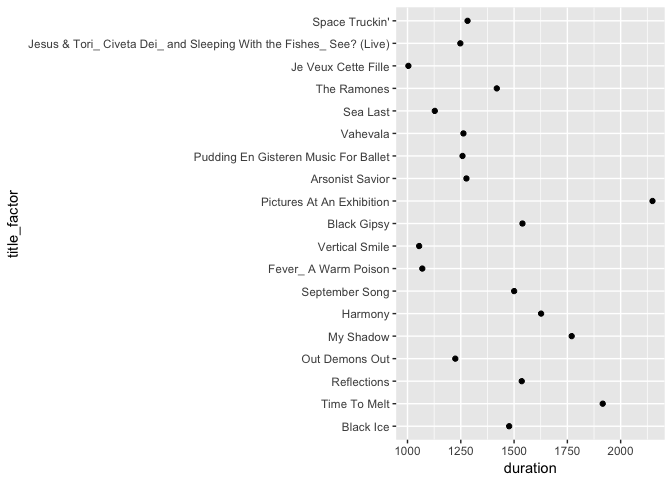
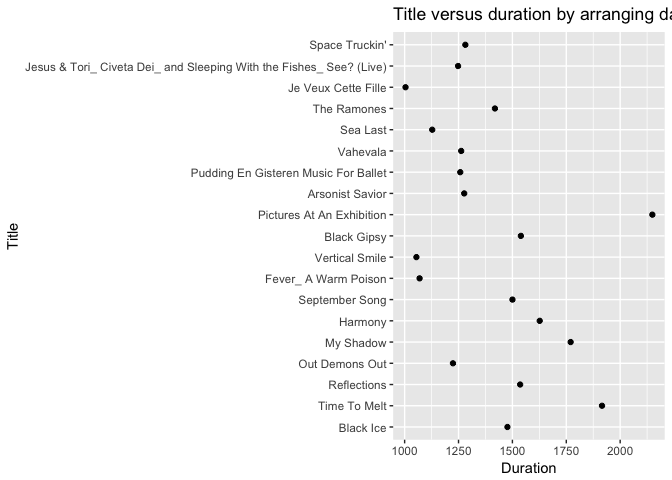
fixed hw05

diff --git a/hw05/hw05_factor_figure_management.md b/hw05/hw05_factor_figure_management.md
@@ -87,6 +87,8 @@ Filter the singer\_locations data to remove observations associated with the inc
 sl_year0_dropped <- sl %>% 
   mutate(year_drop0 = ifelse(year==0,"drop0",year))  %>% filter(year_drop0!="drop0")
 
+## 100 instances of year==0
+
 glimpse(sl_year0_dropped)
 ```
 
@@ -111,7 +113,6 @@ glimpse(sl_year0_dropped)
     ## $ year_drop0         <chr> "2007", "2004", "1998", "1995", "1968", "20...
 
 ``` r
-## 100 instances of year==0
 which(sl$year_drop0=="drop0")
 ```
 
@@ -190,67 +191,93 @@ Explore the effects of arrange(). Does merely arranging the data have any effect
 
 Re-ordering would change the order in which the points are plotted on the graph. `arrange()` would not change the order, whether or not it is used with re-ordering.
 
+filter data to only look at titles with duration &gt;1000 otherwise plot is too cluttered
+-----------------------------------------------------------------------------------------
+
+using arrange() only
+--------------------
+
 ``` r
-## filter data to only look at titles with duration >1000 otherwise plot is too cluttered
-## using arrange() only
 sl_year0_unused_levels_dropped %>% 
   arrange(duration) %>% 
   filter(duration>1000) %>%
   ggplot(aes(x=duration,y=title_factor)) + 
-  geom_point()
+  geom_point() +
+  ggtitle("Title versus duration by arranging data based on duration") +
+  ylab("Title") +
+  xlab("Duration")
 ```
 
-![](hw05_factor_figure_management_files/figure-markdown_github-ascii_identifiers/plots-1.png)
+![](hw05_factor_figure_management_files/figure-markdown_github-ascii_identifiers/plot1-1.png)
 
 ``` r
 sl_year0_unused_levels_dropped %>% 
   arrange(duration) %>% 
   filter(duration>1000) %>%
   ggplot(aes(x=duration,y=artist_name_factor)) + 
-  geom_point()
+  geom_point() +
+  ggtitle("Artist name versus duration by arranging data based on duration") +
+  ylab("Artist name") +
+  xlab("Duration")
 ```
 
-![](hw05_factor_figure_management_files/figure-markdown_github-ascii_identifiers/plots-2.png)
+![](hw05_factor_figure_management_files/figure-markdown_github-ascii_identifiers/plot2-1.png)
+
+using re-ordering of levels
+---------------------------
 
 ``` r
-## using re-ordering of levels
 sl_year0_unused_levels_dropped %>%
   filter(duration>1000) %>%
   ggplot(aes(x=duration,y=fct_reorder(title_factor,duration,.desc=TRUE))) + 
-  geom_point()
+  geom_point() +
+  ggtitle("Title (reordered based on duration) versus duration") +
+  ylab("Title") +
+  xlab("Duration")
 ```
 
-![](hw05_factor_figure_management_files/figure-markdown_github-ascii_identifiers/plots-3.png)
+![](hw05_factor_figure_management_files/figure-markdown_github-ascii_identifiers/plot3-1.png)
 
 ``` r
 sl_year0_unused_levels_dropped %>% 
   filter(duration>1000) %>%
   ggplot(aes(x=duration,y=fct_reorder(artist_name_factor,duration,.desc=TRUE))) + 
-  geom_point()
+  geom_point() +
+  ggtitle("Artist name (reordered based on duration) versus duration") +
+  ylab("Artist name") +
+  xlab("Duration")
 ```
 
-![](hw05_factor_figure_management_files/figure-markdown_github-ascii_identifiers/plots-4.png)
+![](hw05_factor_figure_management_files/figure-markdown_github-ascii_identifiers/plot4-1.png)
+
+using re-ordering levels and arrange
+------------------------------------
 
 ``` r
-## using re-ordering levels and arrange
 sl_year0_unused_levels_dropped %>% 
   arrange(duration) %>% 
   filter(duration>1000) %>%
   ggplot(aes(x=duration,y=fct_reorder(title_factor,duration,.desc=TRUE))) + 
-  geom_point()
+  geom_point() +
+  ggtitle("Title versus duration by applying arrange and reordering") +
+  ylab("Title") +
+  xlab("Duration")
 ```
 
-![](hw05_factor_figure_management_files/figure-markdown_github-ascii_identifiers/plots-5.png)
+![](hw05_factor_figure_management_files/figure-markdown_github-ascii_identifiers/plot5-1.png)
 
 ``` r
 sl_year0_unused_levels_dropped %>% 
   arrange(duration) %>% 
   filter(duration>1000) %>%
   ggplot(aes(x=duration,y=fct_reorder(artist_name_factor,duration,.desc=TRUE))) + 
-  geom_point()
+  geom_point() +
+  ggtitle("Artist name versus duration by arranging and reordering") +
+  ylab("Artist name") +
+  xlab("Duration")
 ```
 
-![](hw05_factor_figure_management_files/figure-markdown_github-ascii_identifiers/plots-6.png)
+![](hw05_factor_figure_management_files/figure-markdown_github-ascii_identifiers/plot6-1.png)
 
 ### File I/O
 
@@ -341,6 +368,8 @@ Remake at least one figure or create a new one, in light of something you learne
 
 -Reshaping data can allow you to juxtapose multiple variables in order to compare them -Re-ordering by year will organize the points in sequential order
 
+#### Applying reshaping and faceting
+
 ``` r
 ## without reshaping
 hfd_y <- singer_locations %>% select(year, artist_hotttnesss, artist_familiarity, duration)
@@ -356,14 +385,16 @@ hfd_y_long %>%
     ggplot(aes(x = year, y = Units, colour=Measure)) + 
     geom_point() + 
     facet_wrap(~Measure,scales = "free") +
-    theme(axis.text.x = element_text(angle = 90, hjust = 1))
+    theme(axis.text.x = element_text(angle = 90, hjust = 1)) +
+    ggtitle("Artist familiarity, hotness, and song duration over time") +
+    xlab("Top artist names")
 ```
 
 ![](hw05_factor_figure_management_files/figure-markdown_github-ascii_identifiers/unnamed-chunk-3-1.png)
 
-``` r
-## Apply lumping to group data into 10 groups based on top artist names
+#### Apply lumping to group data into 10 groups based on top artist names and reorder the top artist names factor by year
 
+``` r
 sl %>%   # fct_lummp from forcats (lump cata) into 10 groups
   mutate(top_artist_names = fct_lump(artist_name_factor, n=7)) %>%
   select(year, top_artist_names, artist_hotttnesss, artist_familiarity, duration) %>%
@@ -371,15 +402,16 @@ sl %>%   # fct_lummp from forcats (lump cata) into 10 groups
   ggplot(aes(x=fct_reorder(top_artist_names,year),y=Units, color=top_artist_names)) +
   geom_point() +
   facet_wrap(~Measure, scales="free") +
-  theme(axis.text.x = element_text(angle = 90, hjust = 1))
+  theme(axis.text.x = element_text(angle = 90, hjust = 1)) +
+  ggtitle("Artist familiarity, hotness, and song duration for top artists and other artists") +
+  xlab("Top artist names and Other")
 ```
 
-![](hw05_factor_figure_management_files/figure-markdown_github-ascii_identifiers/unnamed-chunk-3-2.png)
+![](hw05_factor_figure_management_files/figure-markdown_github-ascii_identifiers/lumping-1.png)
+
+#### Lets get rid of the "other" group since it's not showing anything informative and just focus on the top 10 artists
 
 ``` r
-## lets get rid of the "other" group since it's not showing anything informative and just focus on the top 10 artists
-## reorder factors based on EACH MEASURE
-
 g1 <- sl_year0_unused_levels_dropped %>%   # fct_lummp from forcats (lump cata)
   mutate(top_artist_names = fct_lump(artist_name_factor, n=7)) %>%
   select(year, top_artist_names, artist_hotttnesss, artist_familiarity, duration) %>%
@@ -388,16 +420,20 @@ g1 <- sl_year0_unused_levels_dropped %>%   # fct_lummp from forcats (lump cata)
   ggplot(aes(x=fct_reorder(top_artist_names,year),y=Units, color=top_artist_names)) +
   geom_point() +
   facet_wrap(~Measure, scales="free") +
-  theme(axis.text.x = element_text(angle = 90, hjust = 1))
+  theme(axis.text.x = element_text(angle = 90, hjust = 1)) +
+  ggtitle("Artist familiarity, hotness, and song duration for top artists") +
+  xlab("Top artist names")
   
 g1
 ```
 
-![](hw05_factor_figure_management_files/figure-markdown_github-ascii_identifiers/unnamed-chunk-3-3.png)
+![](hw05_factor_figure_management_files/figure-markdown_github-ascii_identifiers/others_gone-1.png)
 
 ``` r
-ggsave("./Images/g1.png", width=20, height=10, units="cm", plot=g1)
+ggsave("g1.png", width=20, height=10, units="cm", plot=g1)
 ```
+
+##### Note: It is very important to specify `plot` in `ggsave` if you have previously printed/made more than 1 plot. For instance, if I were to make another `ggplot` and assigned that to `g2`, then when I do run `ggsave` it is probably best practice to specify `plot=g2` or `plot=g1` so that there is no confusion as to which plot will be saved.
 
 ### Writing figures to file
 
@@ -408,3 +444,19 @@ Arguments of ggsave(), such as width, height, resolution or text scaling. Variou
 Below is the plot that was generated by `ggsave()` and read back in using `![plot](g1.png)`
 
 ![plot](g1.png)
+
+### Report your process
+
+Reflect on what was hard/easy, problems you solved, helpful tutorials you read, etc.
+
+1.  Reading in a `png` file: I didn't know that the code for bringing a plot in should not be part of an R code chunk. When I included `![plot](g1.png)` inside R chunks, I always ran into errors and couldn't render the Markdown file.
+
+2.  I couldn't figure out how to convert a variable originally of type `integer` into type `factor`. For instance, for the `singer_locations` dataset, I tried to convert `year` into a factor but always ran into errors. Specfically, `as_factor(sl$year)` outputs an error. Can we usually convert numbers/integers into factors in R?
+
+### Resources:
+
+1.  Table of contents: <https://github.com/jonschlinkert/markdown-toc/edit/master/README.md>
+
+2.  Importing and exporting files: <http://stat545.com/block026_file-out-in.html>
+
+3.  Factors releveling: <http://stat545.com/block029_factors.html>
